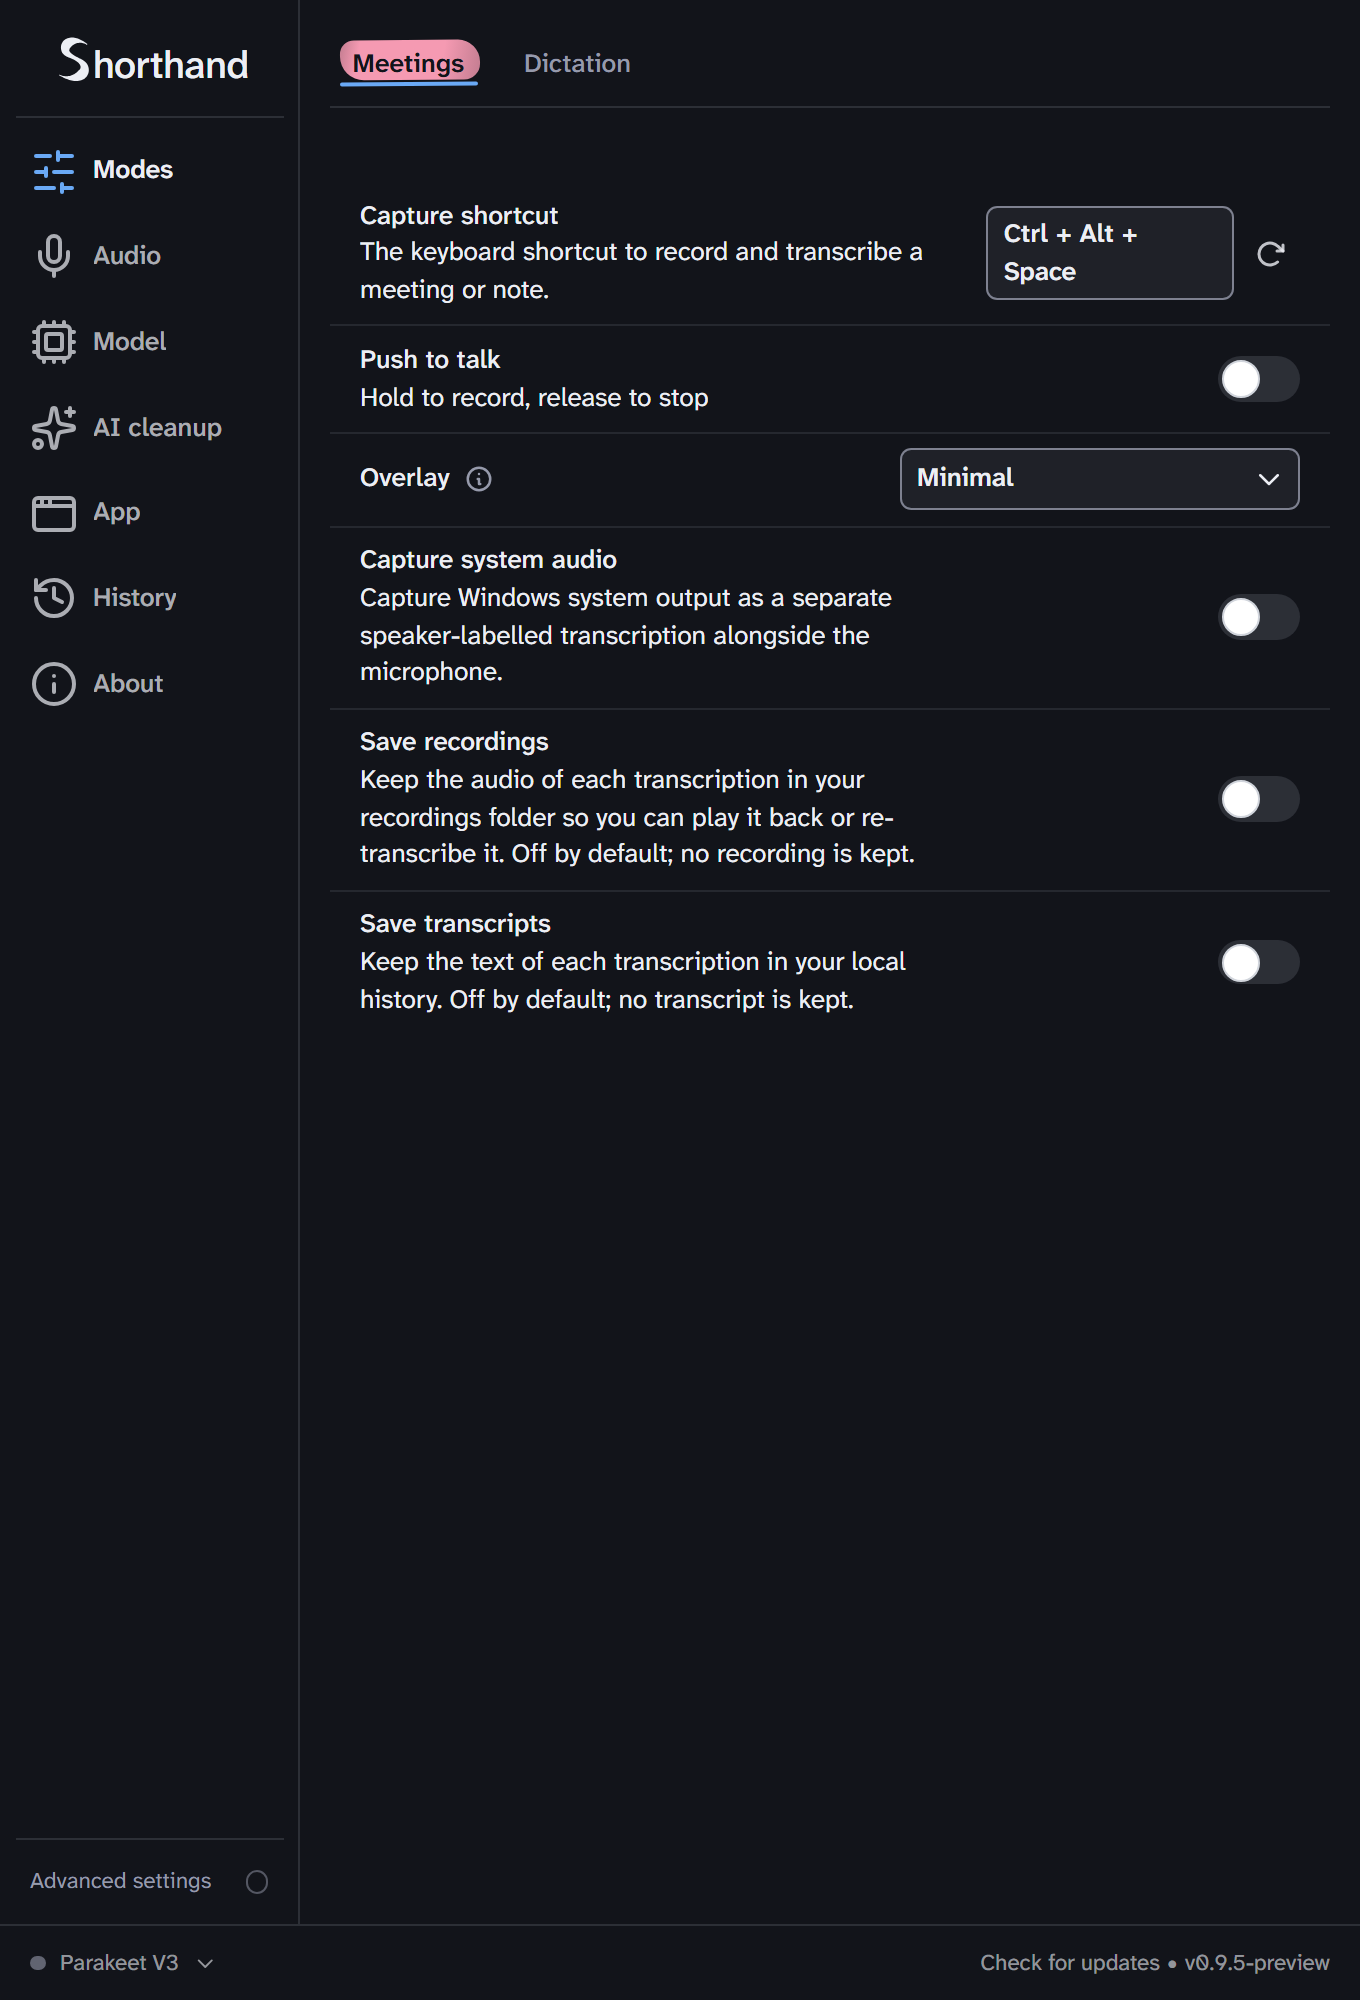
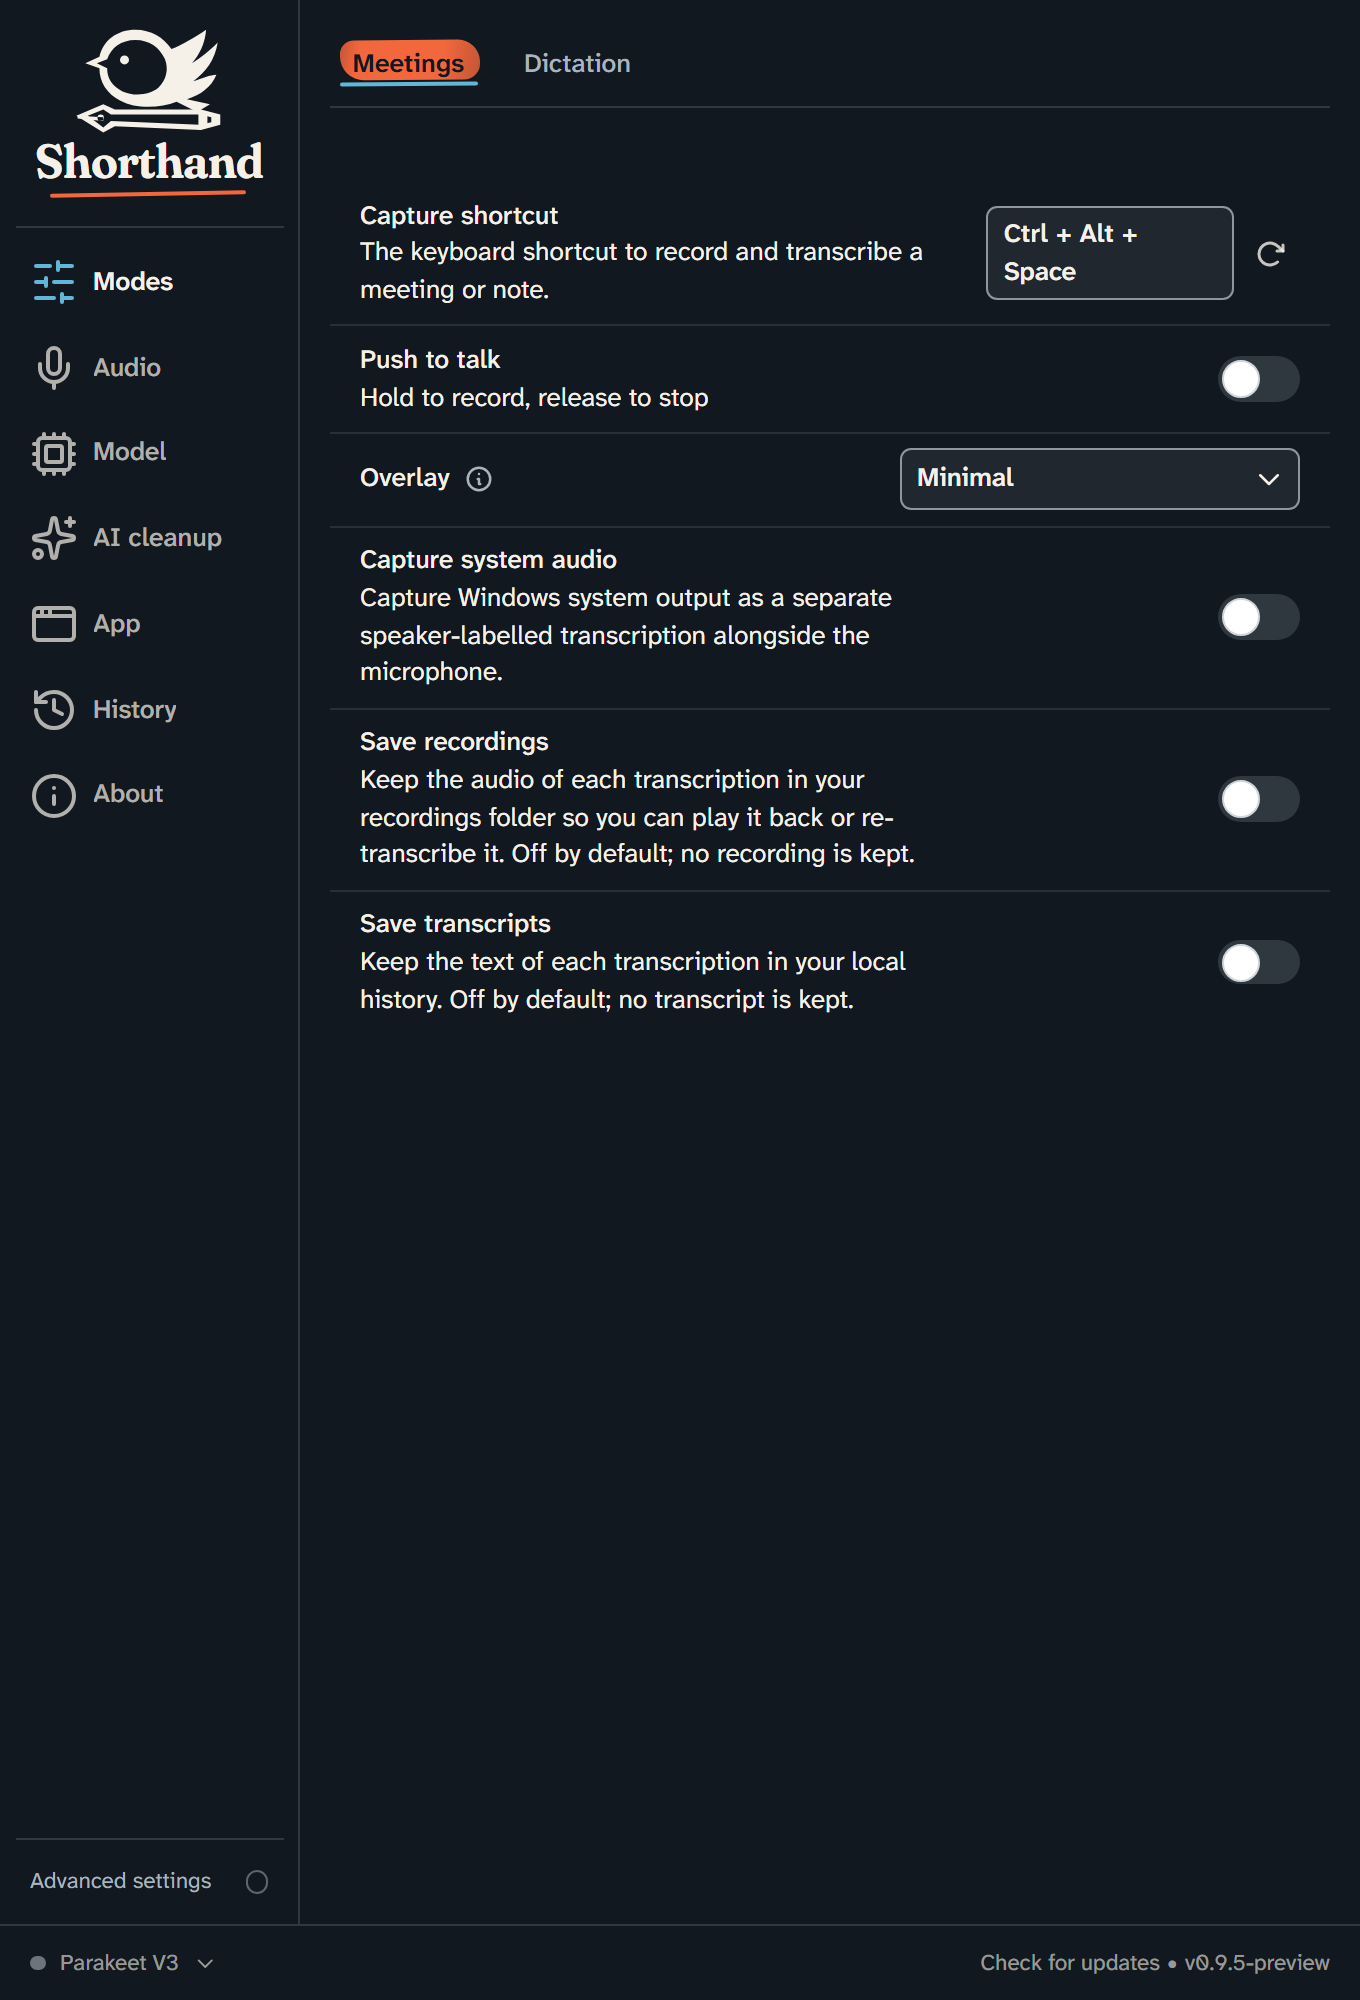
feat(brand): the bird and pen replace the written s
The mark is now approved artwork rather than generated geometry, so
scripts/gen-brand-mark.ts and mark.generated.ts go with it. That generator
existed for one reason - SVG cannot vary stroke-width along a path, so a
calligraphic "s" needed ~200 machine-derived outline coordinates - and the
reason no longer applies. mark.paths.ts is transcribed from
brand-assets/mark-silhouette.svg and should be re-transcribed, not tuned.

Three things about the new artwork break assumptions the old one allowed:
it is four paths rather than one, two of them use fill-rule="evenodd" to
punch the counters out of the bird's body and the pen barrel, and it is
landscape (about 112x80 drawn inside a 128-unit box, centred at y=60 rather
than 64). Anything that scales or centres it has to work from the drawn
bounds, not the canvas.

The lockup changes with it. [mark]horthand argued that a bug beside the word
would print two S's and say nothing; the approved artwork settles that by
stacking the bird and pen above the whole name, with the coral sweep beneath.
The word is live Fraunces at the pack's display axes, so it follows the
theme's ink and stays crisp at any size. FONT.md's mark-height and kerning
table describes the lockup that lost - only its weight, axes and tracking
still apply, and the component says so where someone would otherwise "fix" it.

Screenshots regenerated from brand-preview, which is how the composition was
checked in both themes.

Changed region(s): [[0.0, 0.0, 0.2162, 0.403], [0.2471, 0.0, 0.3706, 0.062]]

diff --git a/src/shorthand/brand/ShorthandWordmark.tsx b/src/shorthand/brand/ShorthandWordmark.tsx
@@ -4,28 +4,30 @@ import ShorthandMark from "./ShorthandMark";
 /**
  * Fork-only. The Shorthand wordmark, replacing upstream's `HandyTextLogo`.
  *
- * The mark stands in for the initial S rather than sitting beside the word.
- * A logo bug next to "Shorthand" would put two S's in the lockup and say
- * nothing; substituting the written stroke for the typeset letter is the whole
- * idea of the product in one move — the word is half handwriting.
- *
- * Set in the app's own type rather than as outlines, so the wordmark stays
- * crisp at any size, follows the theme's ink colour, and never needs
- * re-exporting when the type scale moves.
+ * The approved artwork stacks the bird-and-pen mark above the complete product
+ * name. The word remains live Fraunces rather than outlines, so it stays crisp
+ * at any size, follows the theme's ink colour, and never needs re-exporting when
+ * the type scale moves.
  */
 /**
  * The product name is a proper noun and is deliberately not a translation key.
  * It lives in constants rather than inline in the JSX so `i18next/no-literal-string`
  * has nothing to flag and no `eslint-disable` has to be carried past it.
- *
- * `NAME` is the accessible name; `NAME_TAIL` is what remains once the mark has
- * taken the initial S.
  */
 const NAME = "Shorthand";
-const NAME_TAIL = NAME.slice(1);
+
+// The approved silhouette occupies x=8..120 and y=20..100 inside its square
+// viewBox. These values let the stacked lockup size and centre the landscape
+// drawing by its visible bounds rather than by the empty canvas around it.
+const MARK_VIEWBOX_SIZE = 128;
+const MARK_MIN_X = 8;
+const MARK_MIN_Y = 20;
+const MARK_DRAWN_WIDTH = 112;
+const MARK_DRAWN_HEIGHT = 80;
+const MARK_WIDTH_IN_CAP_HEIGHTS = 3;
 
 interface ShorthandWordmarkProps {
-  /** Cap height of the lockup in px. The mark and the word both scale from it. */
+  /** Cap height of the word in px. The mark and underline both scale from it. */
   height?: number;
   className?: string;
 }
@@ -33,39 +35,67 @@ interface ShorthandWordmarkProps {
 export const ShorthandWordmark: React.FC<ShorthandWordmarkProps> = ({
   height = 22,
   className = "",
-}) => (
-  <span
-    className={`inline-flex items-baseline text-text ${className}`}
-    // `dir="ltr"` because the lockup is a name, not running text: in an RTL
-    // locale the mark must stay on the left of "horthand" or it stops spelling
-    // anything.
-    dir="ltr"
-  >
-    <span className="sr-only">{NAME}</span>
-    <ShorthandMark
-      aria-hidden="true"
-      height={height}
-      width={height}
-      // The generated glyph is padded inside its 64-unit box and carries a
-      // swash below the baseline, so it needs pulling down and tightening in
-      // to sit as an initial rather than as a bug parked next to the word.
-      style={{
-        marginInlineEnd: `${-height * 0.1}px`,
-        transform: `translateY(${height * 0.11}px)`,
-      }}
-    />
+}) => {
+  const markWidth = height * MARK_WIDTH_IN_CAP_HEIGHTS;
+  const markHeight = markWidth * (MARK_DRAWN_HEIGHT / MARK_DRAWN_WIDTH);
+  const markCanvasSize = markWidth * (MARK_VIEWBOX_SIZE / MARK_DRAWN_WIDTH);
+  const markLeft = -markCanvasSize * (MARK_MIN_X / MARK_VIEWBOX_SIZE);
+  const markTop = -markCanvasSize * (MARK_MIN_Y / MARK_VIEWBOX_SIZE);
+
+  return (
     <span
-      aria-hidden="true"
-      className="font-medium"
-      style={{
-        fontSize: `${height * 0.82}px`,
-        letterSpacing: "-0.015em",
-        lineHeight: 1,
-      }}
+      className={`inline-flex flex-col items-center text-text ${className}`}
+      // The product name remains left-to-right in every locale. Fixing its
+      // direction keeps Fraunces shaping and the underline geometry stable;
+      // the vertically stacked mark itself has no directional position.
+      dir="ltr"
     >
-      {NAME_TAIL}
+      <span
+        aria-hidden="true"
+        className="relative block shrink-0"
+        style={{
+          width: `${markWidth}px`,
+          height: `${markHeight}px`,
+          marginBottom: `${height * 0.12}px`,
+        }}
+      >
+        <ShorthandMark
+          className="absolute max-w-none"
+          size={markCanvasSize}
+          style={{ left: `${markLeft}px`, top: `${markTop}px` }}
+        />
+      </span>
+      <span
+        // FONT.md's mark height, kerning, and baseline nudge describe the
+        // superseded `[mark]horthand` lockup. The approved stack keeps only its
+        // live-type decisions: weight 650, the display axes, and -0.015em
+        // tracking.
+        style={{
+          fontFamily: "var(--brand-font-display)",
+          fontSize: `${height}px`,
+          fontVariationSettings: "var(--brand-font-display-variation-settings)",
+          fontWeight: "var(--brand-font-display-weight)",
+          letterSpacing: "-0.015em",
+          lineHeight: 1,
+          whiteSpace: "nowrap",
+        }}
+      >
+        {NAME}
+      </span>
+      <span
+        aria-hidden="true"
+        className="block"
+        style={{
+          width: "86%",
+          height: `${Math.max(height * 0.08, 2)}px`,
+          marginTop: `${height * 0.12}px`,
+          borderRadius: "9999px",
+          backgroundColor: "var(--brand-highlighter)",
+          transform: "rotate(-1deg)",
+        }}
+      />
     </span>
-  </span>
-);
+  );
+};
 
 export default ShorthandWordmark;

diff --git a/src/shorthand/brand/ShorthandMark.tsx b/src/shorthand/brand/ShorthandMark.tsx
@@ -1,16 +1,14 @@
 import React from "react";
-import { MARK_PATH } from "./mark.generated";
+import { MARK_PATHS } from "./mark.paths";
 
 /**
- * Fork-only. The Shorthand mark: a lowercase "s" written with a pointed pen,
- * thinning to nothing at the entry, the waist and the exit.
- *
- * The curve is drawn by `scripts/gen-brand-mark.ts`; see the header there for
- * why the shape is generated rather than hand-authored.
+ * Fork-only. The Shorthand mark: a bird perched on a fountain pen, reduced to
+ * the approved one-colour silhouette so the same story survives when the clay
+ * artwork's material detail disappears at small sizes.
  *
  * Fills with `currentColor` so the same component serves as the sidebar icon
- * (inheriting the row's text colour), the wordmark's initial, and the tray
- * artwork, without a themed fill of its own.
+ * (inheriting the row's text colour), the wordmark, and the tray artwork,
+ * without a themed fill of its own.
  */
 interface ShorthandMarkProps extends React.SVGProps<SVGSVGElement> {
   width?: number | string;
@@ -28,14 +26,22 @@ const ShorthandMark: React.FC<ShorthandMarkProps> = ({
   <svg
     width={width ?? size ?? 24}
     height={height ?? size ?? 24}
-    viewBox="0 0 64 64"
-    fill="none"
+    viewBox="0 0 128 128"
+    fill="currentColor"
+    shapeRendering="geometricPrecision"
     aria-hidden="true"
     focusable="false"
     xmlns="http://www.w3.org/2000/svg"
     {...props}
   >
-    <path d={MARK_PATH} fill="currentColor" />
+    {MARK_PATHS.map((path) => (
+      <path
+        key={path.d}
+        d={path.d}
+        fill="currentColor"
+        fillRule={path.fillRule}
+      />
+    ))}
   </svg>
 );
 

diff --git a/src/shorthand/brand/mark.paths.ts b/src/shorthand/brand/mark.paths.ts
@@ -1,0 +1,26 @@
+// Transcribed from brand-assets/mark-silhouette.svg. If the approved artwork
+// changes, re-transcribe these paths from that source rather than hand-tuning
+// the component copy.
+
+interface MarkPath {
+  d: string;
+  fillRule?: "evenodd";
+}
+
+/** The four paths in the approved bird-and-pen silhouette. */
+export const MARK_PATHS: readonly MarkPath[] = [
+  {
+    d: "M26 50L15 46L26 41C29 28 40 20 54 20C66 20 76 26 82 35C90 32 100 26 109 20C108 31 104 39 98 46C105 42 112 36 118 30C116 43 109 53 99 60C106 58 112 55 117 55C113 65 104 71 94 74L112 78L102 84L86 76C73 81 55 82 42 75C32 70 26 61 26 50ZM32 50L24 46L32 43C35 34 43 28 54 28C65 28 73 34 77 43C80 51 78 59 72 65C65 71 53 72 44 68C36 64 32 58 32 50Z",
+    fillRule: "evenodd",
+  },
+  {
+    d: "M45.5 40A3.5 3.5 0 1 0 45.5 47A3.5 3.5 0 1 0 45.5 40Z",
+  },
+  {
+    d: "M8 87L29 78L38 82H105L120 86V94L105 98L38 95L29 100ZM17 87L29 82L35 86H104L113 88V92L104 94L35 91L29 96Z",
+    fillRule: "evenodd",
+  },
+  {
+    d: "M9 87L29 88V91L9 89ZM27 86A2.5 2.5 0 1 0 27 91A2.5 2.5 0 1 0 27 86ZM103 82L110 84V96L103 98Z",
+  },
+];
